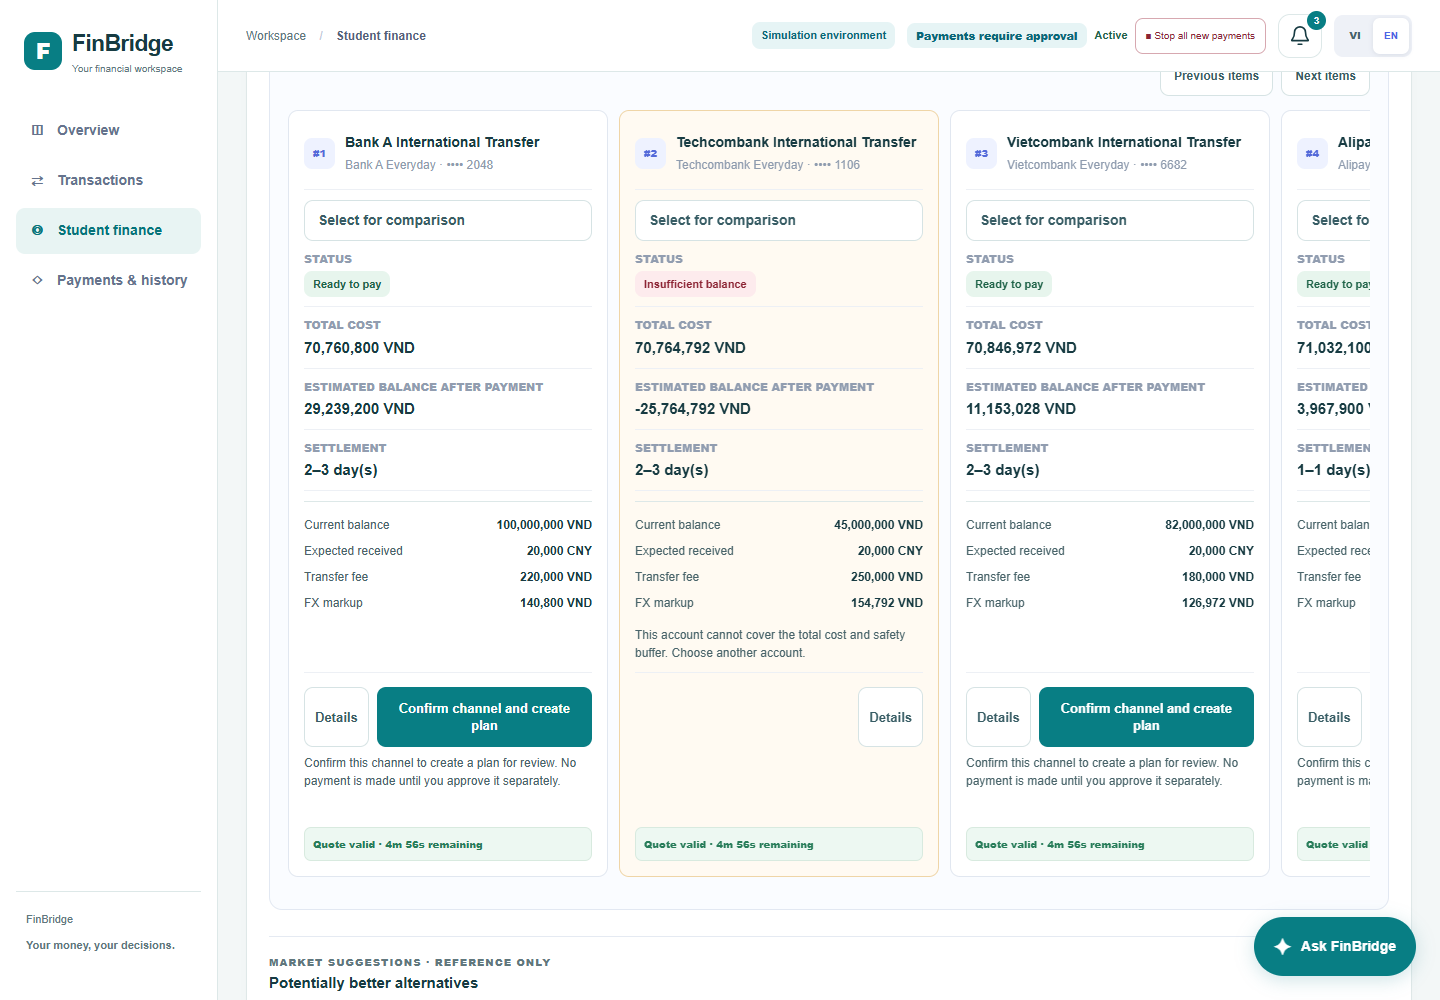
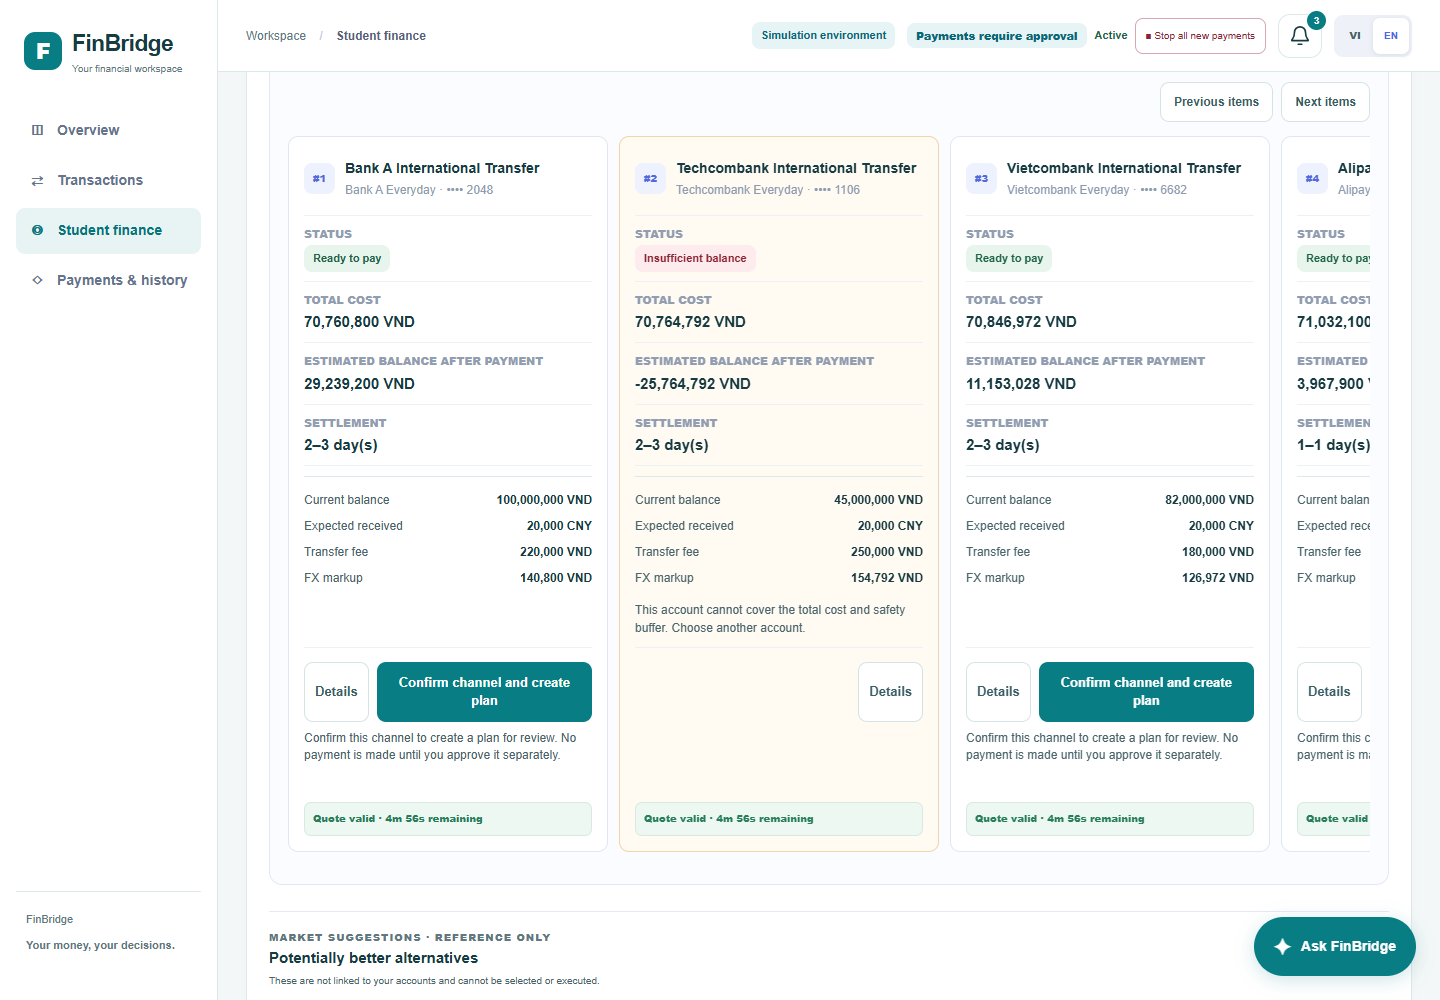
fix(ux): simplify channel selection and keep bill cards consistent

diff --git a/src/main/resources/templates/home.html b/src/main/resources/templates/home.html
@@ -2,7 +2,7 @@
 <html lang="en" xmlns:th="http://www.thymeleaf.org">
 <head>
   <meta charset="utf-8"><meta name="viewport" content="width=device-width,initial-scale=1">
-  <title>FinBridge · Financial workspace</title><link rel="stylesheet" th:href="@{/app.css(v='20261010-notification-layout')}">
+  <title>FinBridge · Financial workspace</title><link rel="stylesheet" th:href="@{/app.css(v='20261010-card-selection')}">
 </head>
 <body>
 <a class="skip-link" href="#workspace-content">Skip to main content</a>
@@ -293,7 +293,7 @@
             <th:block th:each="quote : ${connectedChannelQuotes}" th:with="sourceAccount=${paymentAccountById.get(quote.sourceAccountId)},canFund=${quote.eligible and sourceAccount != null and sourceAccount.canFund(quote.landedCost,agentPolicy.safetyBuffer)}">
               <article class="connected-payment-card channel-list-row" th:classappend="${!quote.eligible ? ' unavailable-account' : (!canFund ? ' insufficient-account' : '')}" th:attr="data-testid=${'channel-' + quote.channelId},data-quote-expiry=${quote.expiresAtEpochMillis},data-channel-eligible=${quote.eligible},data-state=${!quote.eligible ? 'unavailable' : (quote.expired ? 'expired' : (canFund ? 'payable' : 'insufficient'))},data-balance=${sourceAccount.balance},data-remaining=${sourceAccount.balance.subtract(quote.landedCost)},data-cost=${quote.landedCost},data-settlement=${quote.settlementMaxDays},data-safety=${quote.safetyScore},data-name=${quote.displayName}">
                 <div class="channel-list-name"><span class="rank" th:text="${quote.rank != null ? '#' + quote.rank : 'N/A'}"></span><div><strong th:text="${quote.displayName}"></strong><small th:text="${sourceAccount.displayName + ' · ' + sourceAccount.maskedNumber}"></small></div></div>
-                <button class="secondary channel-picker" type="button" th:disabled="${!quote.eligible}" th:attr="data-select-channel=${quote.channelId},aria-label=${'Select ' + quote.displayName}" aria-pressed="false"><span>Select for comparison</span></button>
+                <button class="channel-picker visually-hidden" type="button" th:disabled="${!quote.eligible}" th:attr="data-select-channel=${quote.channelId},aria-label=${'Select ' + quote.displayName}" aria-pressed="false"><span>Select for comparison</span></button>
                 <div><small>Status</small><span class="eligibility" th:classappend="${canFund and !quote.expired ? ' eligible' : ' unavailable-tag'}" th:text="${!quote.eligible ? 'Unavailable for corridor' : (quote.expired ? 'Quote expired' : (canFund ? 'Ready to pay' : 'Insufficient balance'))}"></span></div>
                 <div><small>Total cost</small><strong th:text="${@conversationPresentation.money(quote.landedCost) + ' VND'}"></strong></div>
                 <div class="row-remaining" th:attr="data-testid=${'remaining-' + quote.channelId}"><small>Estimated balance after payment</small><strong th:text="${@conversationPresentation.money(sourceAccount.balance.subtract(quote.landedCost)) + ' VND'}"></strong></div>
@@ -684,6 +684,6 @@
   </form>
   <p class="assistant-safety">AI helps understand your question. Asking does not authorize a payment.</p>
 </aside>
-<script th:src="@{/app.js(v='20261010-notification-layout')}"></script>
+<script th:src="@{/app.js(v='20261010-card-selection')}"></script>
 </body>
 </html>

diff --git a/src/main/resources/static/app.css b/src/main/resources/static/app.css
@@ -569,8 +569,8 @@ button:disabled{opacity:.55;cursor:not-allowed}button[aria-pressed=true]{font-we
 .channel-list-row>.channel-card-footer{margin-top:auto;padding:14px 0 0!important;border-bottom:0!important;border-top:1px solid #edf0f5;display:grid;grid-template-rows:minmax(60px,auto) minmax(64px,auto) minmax(34px,auto);gap:8px;align-content:end;min-height:144px}
 .channel-card-footer .channel-row-actions{margin:0;padding:0!important;border:0!important;display:flex;align-items:stretch;gap:8px}
 .channel-card-footer .channel-row-actions .secondary{min-height:42px;display:inline-flex;align-items:center;justify-content:center;font-size:13px}
-.channel-card-footer .planning-form{display:flex;flex:1;margin:0}
-.channel-card-footer .channel-row-actions .planning-only{width:100%;min-height:42px;margin:0;display:flex;align-items:center;justify-content:center;white-space:normal;line-height:1.35;font-size:13px}
+.channel-card-footer .planning-form{display:flex;flex:1;min-width:0;margin:0}
+.channel-card-footer .channel-row-actions .planning-only{width:100%;min-width:0;min-height:42px;margin:0;display:flex;align-items:center;justify-content:center;white-space:normal;line-height:1.35;font-size:13px}
 .channel-list-row>.channel-card-footer>small{display:block;min-height:64px;margin:0;color:var(--muted);font-size:12px;line-height:1.45;text-transform:none;letter-spacing:normal;font-weight:400}
 .channel-card-footer .quote-live-status.compact{min-height:34px;display:flex;align-items:center;margin:0;padding:6px 8px;font-size:10px;line-height:1.35}
 .channel-card-footer .quote-live-status.compact:empty{visibility:hidden}
@@ -595,14 +595,9 @@ button:disabled{opacity:.55;cursor:not-allowed}button[aria-pressed=true]{font-we
 .channel-list-name small{font-size:12px;line-height:1.5}
 .channel-list-name{min-height:64px}
 .channel-essential-facts{font-size:12px;line-height:1.5}
-.student-bill-list.single-visible-bill .student-bill-row{flex-basis:100%;min-height:0}
-@media(min-width:1000px){
-  .student-bill-list.single-visible-bill .student-bill-row{display:grid;grid-template-columns:1fr 1.4fr 1fr;align-items:start;gap:16px 24px;padding:20px}
-  .single-visible-bill .student-bill-beneficiary,.single-visible-bill .student-bill-value{border-top:0;padding-top:0}
-  .single-visible-bill .student-bill-value{text-align:right}
-  .single-visible-bill .student-bill-state{grid-column:1/3;align-self:center}
-  .single-visible-bill .expense-card-actions{justify-content:flex-end;border-top:0;padding-top:0}
-}
+.channel-picker.visually-hidden{width:1px;height:1px;min-width:0;min-height:0;padding:0;border:0}
+.channel-list-row[data-channel-eligible="true"]{cursor:pointer}
+.channel-list-row:has(.channel-picker:focus-visible){outline:2px solid #087e84;outline-offset:2px}
 @media(max-width:700px){
   .channel-list-row{min-height:500px}
   .channel-card-footer .channel-row-actions{display:grid;grid-template-columns:minmax(0,.8fr) minmax(0,1.2fr)}

diff --git a/src/main/resources/static/app.js b/src/main/resources/static/app.js
@@ -1548,7 +1548,6 @@ function initializeStudentBillList(initialPage = 1) {
     const start = (page - 1) * pageSize;
     const visibleRows = new Set(matches.slice(start, start + pageSize));
     rows.forEach((row) => { row.hidden = !visibleRows.has(row); });
-    list.classList.toggle('single-visible-bill', visibleRows.size === 1);
     list.scrollLeft = 0;
 
     const vietnamese = selectedLanguage() === 'vi';
@@ -1624,6 +1623,7 @@ function initializePaymentAccounts() {
     if (picker) picker.querySelector('span').textContent = selectedLanguage() === 'vi'
       ? (selected ? '✓ Đang chọn để so sánh' : 'Chọn để so sánh')
       : (selected ? '✓ Selected for comparison' : 'Select for comparison');
+    if (picker) picker.setAttribute('aria-label', picker.querySelector('span').textContent + ' · ' + card.dataset.name);
   });
   grid.addEventListener('click', event => {
     if (event.target.closest('dialog')) return;

diff --git a/src/test/java/com/example/finance/StudentExpensePlaywrightE2ETest.java b/src/test/java/com/example/finance/StudentExpensePlaywrightE2ETest.java
@@ -68,6 +68,8 @@ class StudentExpensePlaywrightE2ETest {
             assertThat(vcb).hasClass(java.util.regex.Pattern.compile(".*selected-channel.*"));
             assertThat(bank.locator("[data-select-channel]")).hasAttribute("aria-pressed","false");
             assertEquals(before,PersonalFinanceAiIntegrationTest.snapshot(db));
+            assertTrue(bank.locator("[data-select-channel]").boundingBox().height <= 1.1);
+            assertTrue(vcb.locator("[data-select-channel]").boundingBox().height <= 1.1);
             page.reload();page.getByTestId("tab-student").click();
             assertThat(page.getByTestId("channel-VCB").locator("[data-select-channel]")).hasAttribute("aria-pressed","true");
             page.getByTestId("language-vi").click();
@@ -736,6 +738,29 @@ class StudentExpensePlaywrightE2ETest {
                 assertThat(bank.getByTestId("plan-BANK_A")).hasText(language.equals("vi")
                         ? "Xác nhận kênh và tạo kế hoạch" : "Confirm channel and create plan");
                 assertTrue((Boolean) page.evaluate("() => document.documentElement.scrollWidth <= innerWidth + 1"));
+            }
+        }
+    }
+    @Test void billCardWidthDoesNotChangeWhenASecondBillIsAddedOrFilteredOut() {
+        try (BrowserContext context=browser.newContext()) {
+            Page page=context.newPage();page.navigate(BASE_URL);
+            java.util.Map<String,Double> widths=new java.util.HashMap<>();
+            for(int width:new int[]{360,390,1440}) for(String lang:List.of("en","vi")) {
+                page.setViewportSize(width,1000);page.getByTestId("language-"+lang).click();
+                page.locator("[data-tab='student']:visible").first().click();
+                widths.put(width+lang,page.locator("[data-bill-row='1']").boundingBox().width);
+            }
+            GlobalAssistantFixtures.secondTuition(crossBorder);page.reload();
+            for(int width:new int[]{360,390,1440}) for(String lang:List.of("en","vi")) {
+                page.setViewportSize(width,1000);page.getByTestId("language-"+lang).click();
+                page.locator("[data-tab='student']:visible").first().click();
+                var first=page.locator("[data-bill-row='1']");
+                assertEquals(widths.get(width+lang),first.boundingBox().width,1.0);
+                page.getByTestId("student-bill-search").fill("SZDU-2026-MINH");
+                assertEquals(1,page.locator("[data-bill-row]:visible").count());
+                assertEquals(widths.get(width+lang),first.boundingBox().width,1.0);
+                page.getByTestId("student-bill-search").fill("");
+                assertTrue((Boolean)page.evaluate("()=>document.documentElement.scrollWidth<=innerWidth+1"));
             }
         }
     }

diff --git a/src/test/java/com/example/finance/BilingualLayoutAcceptancePlaywrightTest.java b/src/test/java/com/example/finance/BilingualLayoutAcceptancePlaywrightTest.java
@@ -37,6 +37,7 @@ class BilingualLayoutAcceptancePlaywrightTest {
             page.setViewportSize(width,1000);page.getByTestId("language-"+lang).click();
             for(String area:new String[]{"dashboard","transactions","student","agent"}){
                 tab(area);noPageOverflow();
+                if(area.equals("student"))assertTrue((Boolean)page.locator(".planning-only").evaluateAll("es=>es.every(e=>e.scrollWidth<=e.clientWidth+1&&e.getBoundingClientRect().right<=e.closest('.channel-list-row').getBoundingClientRect().right)"),"plan button text fits "+width+" "+lang);
                 assertThat(page.getByTestId("notification-bell")).isVisible();
                 if(width==390||width==1440)capture(area+"-"+width+"-"+lang);
             }
@@ -59,7 +60,7 @@ class BilingualLayoutAcceptancePlaywrightTest {
         for(String lang:new String[]{"vi","en"}){
             page.setViewportSize(1440,1000);page.getByTestId("language-"+lang).click();tab("student");
             assertThat(page.locator(".student-bill-pagination")).isHidden();
-            assertTrue((Boolean)page.locator(".student-bill-list").evaluate("e=>e.classList.contains('single-visible-bill')&&e.querySelector('[data-bill-row]').getBoundingClientRect().width>=e.clientWidth-5"));
+            assertTrue((Boolean)page.locator(".student-bill-list").evaluate("e=>!e.classList.contains('single-visible-bill')&&e.querySelector('[data-bill-row]').getBoundingClientRect().width<=320"));
             assertThat(page.locator(".payment-demo-entry")).hasCount(0);
             for(boolean expired:new boolean[]{false,true}){
                 if(expired)page.evaluate("()=>{document.querySelectorAll('.channel-list-row').forEach(e=>e.dataset.quoteExpiry='1');renderQuoteExpiryStatuses();}");

diff --git a/docs/notification-layout/VERIFICATION.md b/docs/notification-layout/VERIFICATION.md
@@ -32,7 +32,7 @@ Relevant implementation: `CrossBorderService.tuitionInsight`, `PhaseOneControlle
 
 - Comparison cards share a footer structure with consistent action, guidance, quote-status and refresh positions. Supported and unsupported routes align their status rows.
 - More readable invoice/channel text; explanatory guidance no longer inherits the small uppercase fact-label style.
-- A single visible bill uses the available width, with compact desktop columns and a stacked mobile layout. Multiple bills retain the horizontal carousel.
+- Bill cards now keep the same responsive width for one or multiple results, including when filtering down to a single result. The initial full-width single-bill variant was removed after user feedback.
 - Hide one-page invoice pagination and horizontal-scroll hints/controls when there is no overflow.
 - Keep invoice count and pagination together in a compact footer.
 - Remove the duplicate payment-example tools from Overview; existing payment tools remain in Payments & History.
@@ -40,7 +40,7 @@ Relevant implementation: `CrossBorderService.tuitionInsight`, `PhaseOneControlle
 
 ## Focused automated results
 
-The final results below consolidate focused runs; they are not a claim that a full suite was rerun. Initial failures caused by incorrect new test fixtures/selectors/label expectations were corrected and the affected checks rerun.
+The initial results below consolidate focused runs for `4124449`; they are not a claim that a full suite was rerun. Initial failures caused by incorrect new test fixtures/selectors/label expectations were corrected and the affected checks rerun.
 
 | Test class | Distinct checks passed | Coverage |
 | --- | ---: | --- |
@@ -64,3 +64,14 @@ The expiry-layout scenario advances the expiry timestamp in the browser to exerc
 - Financial execution, quote calculation, Policy Guard, approval, idempotency, receipt storage, schema and dependencies were not changed by this task.
 - Before presenting the deployed build, confirm its Live commit, reload cached assets, and check chat with the keyboard open on a real phone. Avoid shared-workspace reset/payment without coordinating with the team.
 - The shared synthetic environment remains a demo; a layout pass does not establish production readiness for real financial data.
+
+## Follow-up: card selection and consistent bill sizing
+
+Date: 2026-10-10. Base: `4124449`.
+
+- Removed the visible "Select for comparison" row. Clicking the card continues to highlight it; a visually hidden native button retains keyboard/screen-reader selection and reports pressed state. Its keyboard focus outlines the card.
+- Unsupported channels remain unselectable, and Details/create-plan controls retain their separate behavior.
+- Removed the single-result full-width layout. One, two, and filtered bill results use the same card sizing.
+- Constrained the create-plan form/button so longer VI/EN text wraps inside the card.
+- Focused result: **17 checks passed** (`StudentExpensePlaywrightE2ETest`: 14; `BilingualLayoutAcceptancePlaywrightTest`: 3). The 3 layout checks were rerun after the final button-overflow adjustment. No full suite, live model request or Render mutation was performed.
+- Cancellation and beneficiary verification logic was read for the explanation but not modified: `cancelExpense` retains the bill as CANCELLED and invalidates pending plans; `verifyRecipient` compares seven fields against synthetic `school_registry`. This is not proof of a real institution's legal status or bank-account ownership.
